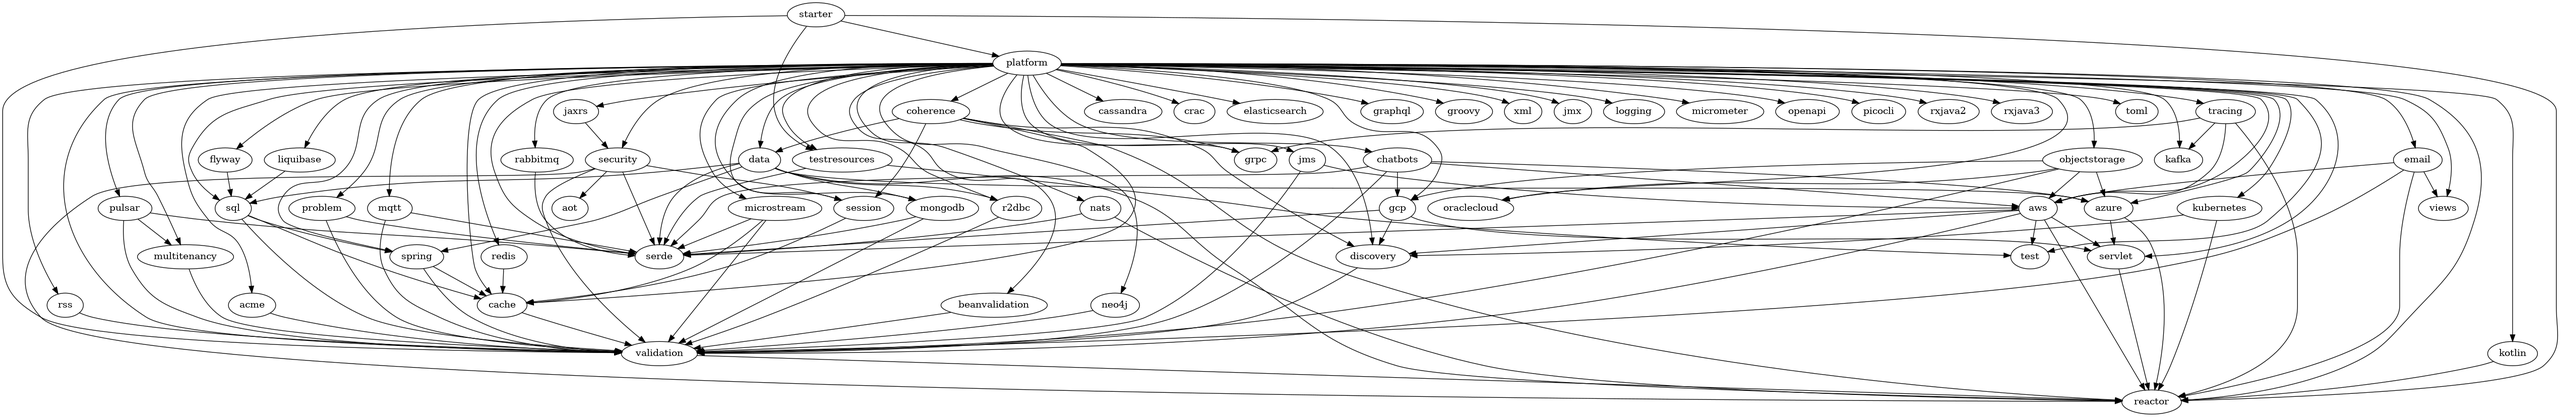
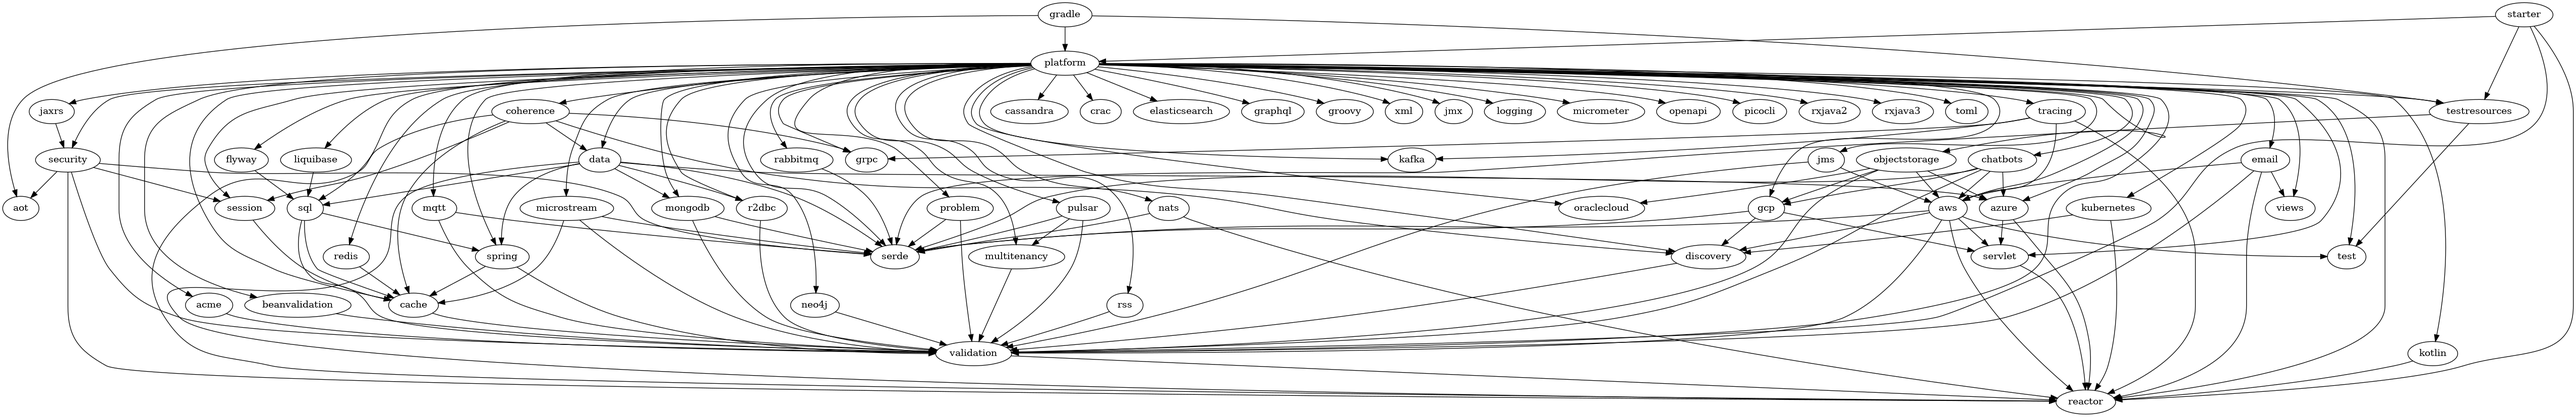
deploy: 3b2f357ef7a3afdb4ed65c1ba22d3688d425cdcc

diff --git a/index.html b/index.html
@@ -80,7 +80,7 @@
 <body>
 <div class="header">
     <img src="https://micronaut.io/wp-content/uploads/2020/11/MIcronautLogo_Horizontal.svg">
-    <div class="right">Generated at Jun 2, 2023, 12:31:27 AM</div>
+    <div class="right">Generated at Jun 2, 2023, 6:18:44 AM</div>
 </div>
 <div class="row">
     <nav>
@@ -222,13 +222,13 @@
 <TR><TD>&#128154; Settings 6.5.0</TD></TR>
 <TR><TD>&#128154; <B>Build: <FONT COLOR="darkgreen">PASSING</FONT></B></TD></TR>
 </TABLE></li>
-        <li class="item" onclick="showImage(this, 'project-graph-gradleplugin.png')"><TABLE BORDER="0" CELLSPACING="1" CELLPADDING="1" STYLE="rounded">
-<TR><TD><B>gradleplugin ERROR</B></TD></TR>
-<TR><TD>&#128155; Status ERROR</TD></TR>
-<TR><TD>&#10060; Micronaut ERROR</TD></TR>
-<TR><TD>&#128155; Gradle ERROR</TD></TR>
-<TR><TD>&#128155; Settings ERROR</TD></TR>
-<TR><TD>&#128155; <B>Build: <FONT COLOR="yellow">ERROR</FONT></B></TD></TR>
+        <li class="item" onclick="showImage(this, 'project-graph-gradle.png')"><TABLE BORDER="0" CELLSPACING="1" CELLPADDING="1" STYLE="rounded">
+<TR><TD><B>gradle 4.0.0-SNAPSHOT</B></TD></TR>
+<TR><TD>&#10060; Status SNAPSHOT</TD></TR>
+<TR><TD>&#10060; Micronaut unknown</TD></TR>
+<TR><TD>&#128155; Gradle 8.1.1</TD></TR>
+<TR><TD>&#128154; Settings 6.5.0</TD></TR>
+<TR><TD>&#128154; <B>Build: <FONT COLOR="darkgreen">PASSING</FONT></B></TD></TR>
 </TABLE></li>
         <li class="item" onclick="showImage(this, 'project-graph-graphql.png')"><TABLE BORDER="0" CELLSPACING="1" CELLPADDING="1" STYLE="rounded">
 <TR><TD><B>graphql 4.0.0-SNAPSHOT</B></TD></TR>
@@ -412,7 +412,7 @@
 <TR><TD>&#10060; Micronaut unknown</TD></TR>
 <TR><TD>&#128155; Gradle 8.1.1</TD></TR>
 <TR><TD>&#128154; Settings 6.5.0</TD></TR>
-<TR><TD>&#128154; <B>Build: <FONT COLOR="darkgreen">PASSING</FONT></B></TD></TR>
+
 </TABLE></li>
         <li class="item" onclick="showImage(this, 'project-graph-problem.png')"><TABLE BORDER="0" CELLSPACING="1" CELLPADDING="1" STYLE="rounded">
 <TR><TD><B>problem 3.0.0-SNAPSHOT</B></TD></TR>
@@ -666,7 +666,7 @@
                        <img id="project-graph-gcp.png" src="project-graph-gcp.png">
                    </div>
 <div class="graph">       
-                       <img id="project-graph-gradleplugin.png" src="project-graph-gradleplugin.png">
+                       <img id="project-graph-gradle.png" src="project-graph-gradle.png">
                    </div>
 <div class="graph">       
                        <img id="project-graph-graphql.png" src="project-graph-graphql.png">
